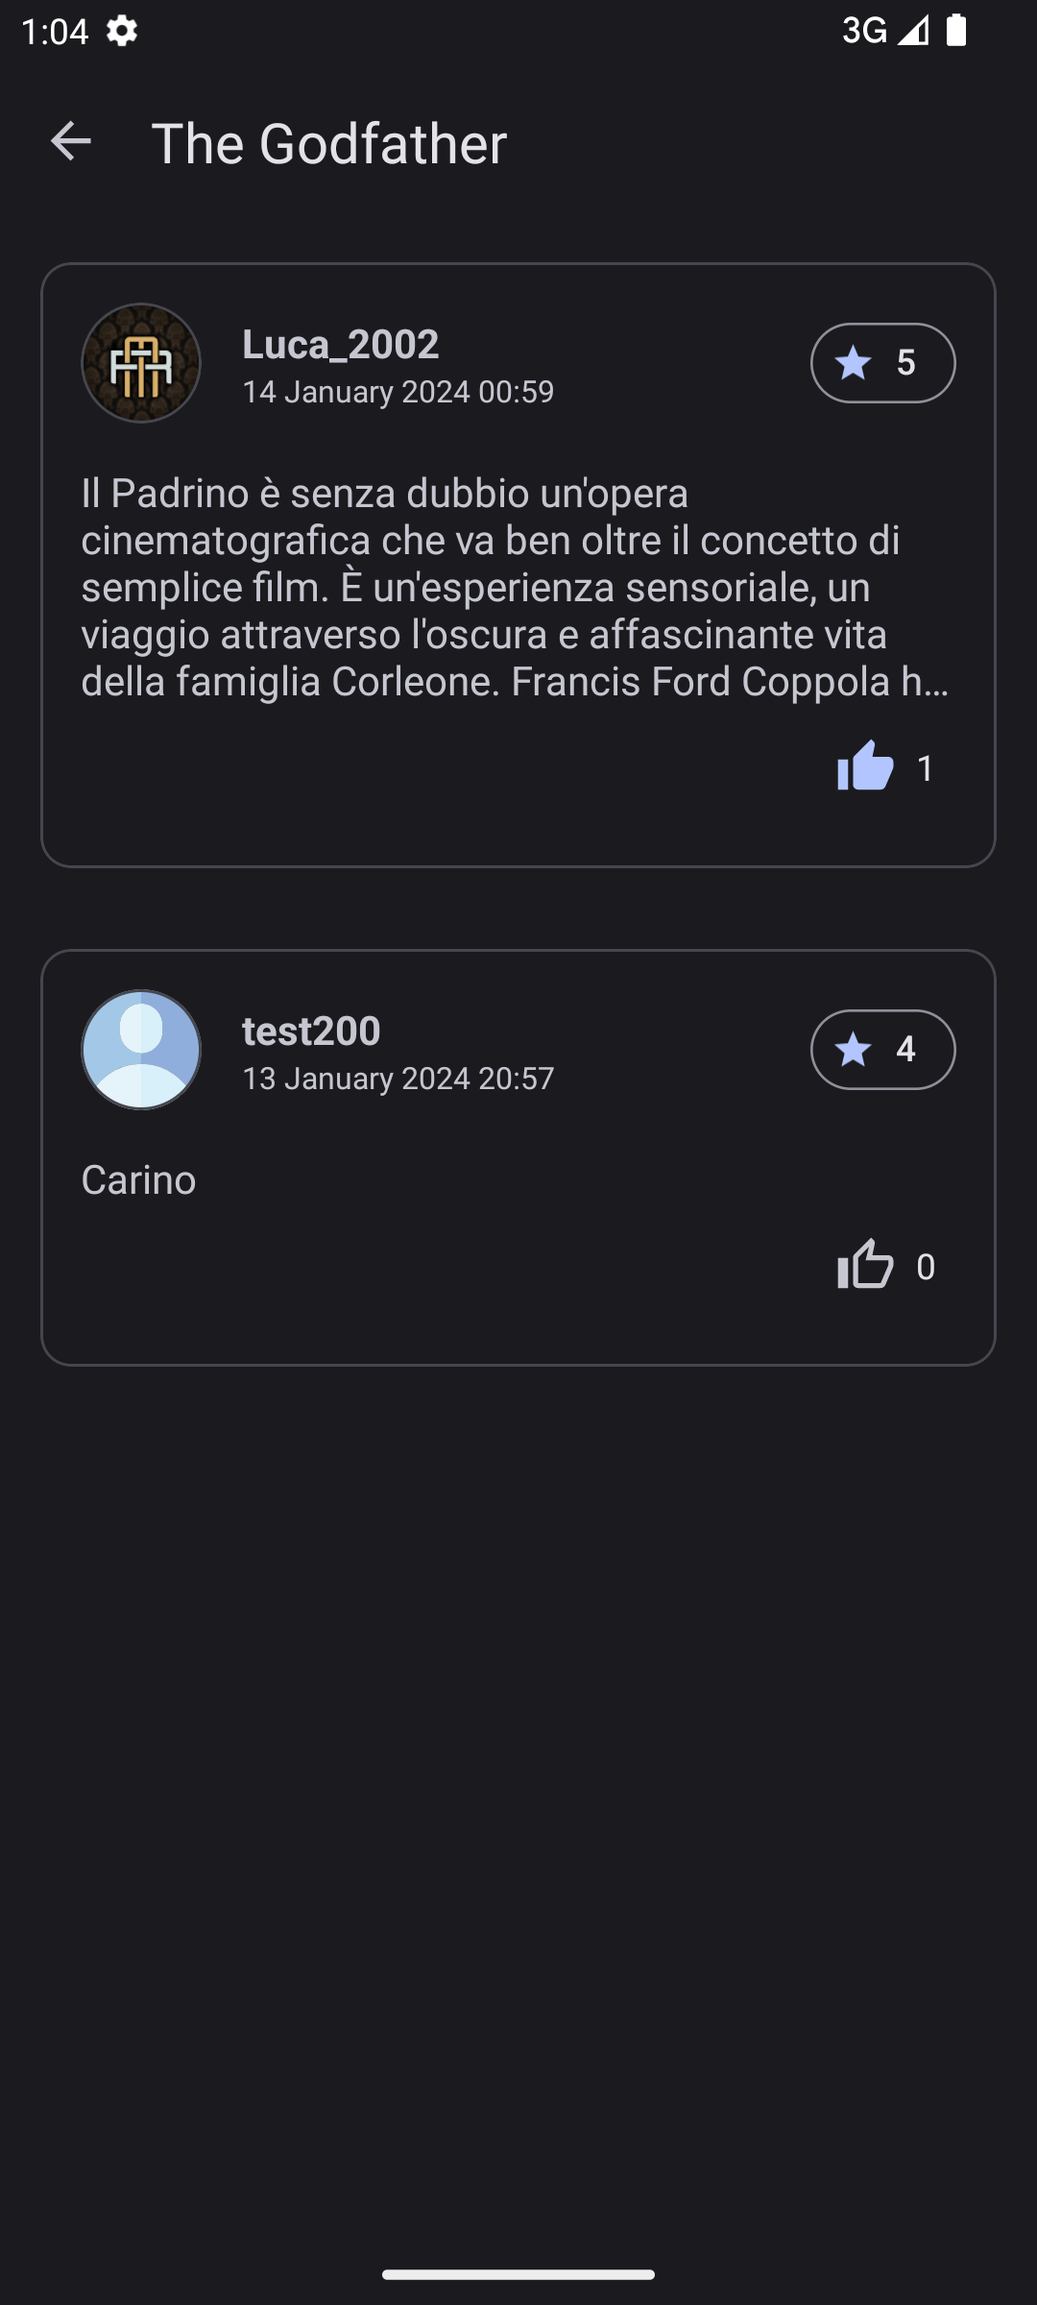
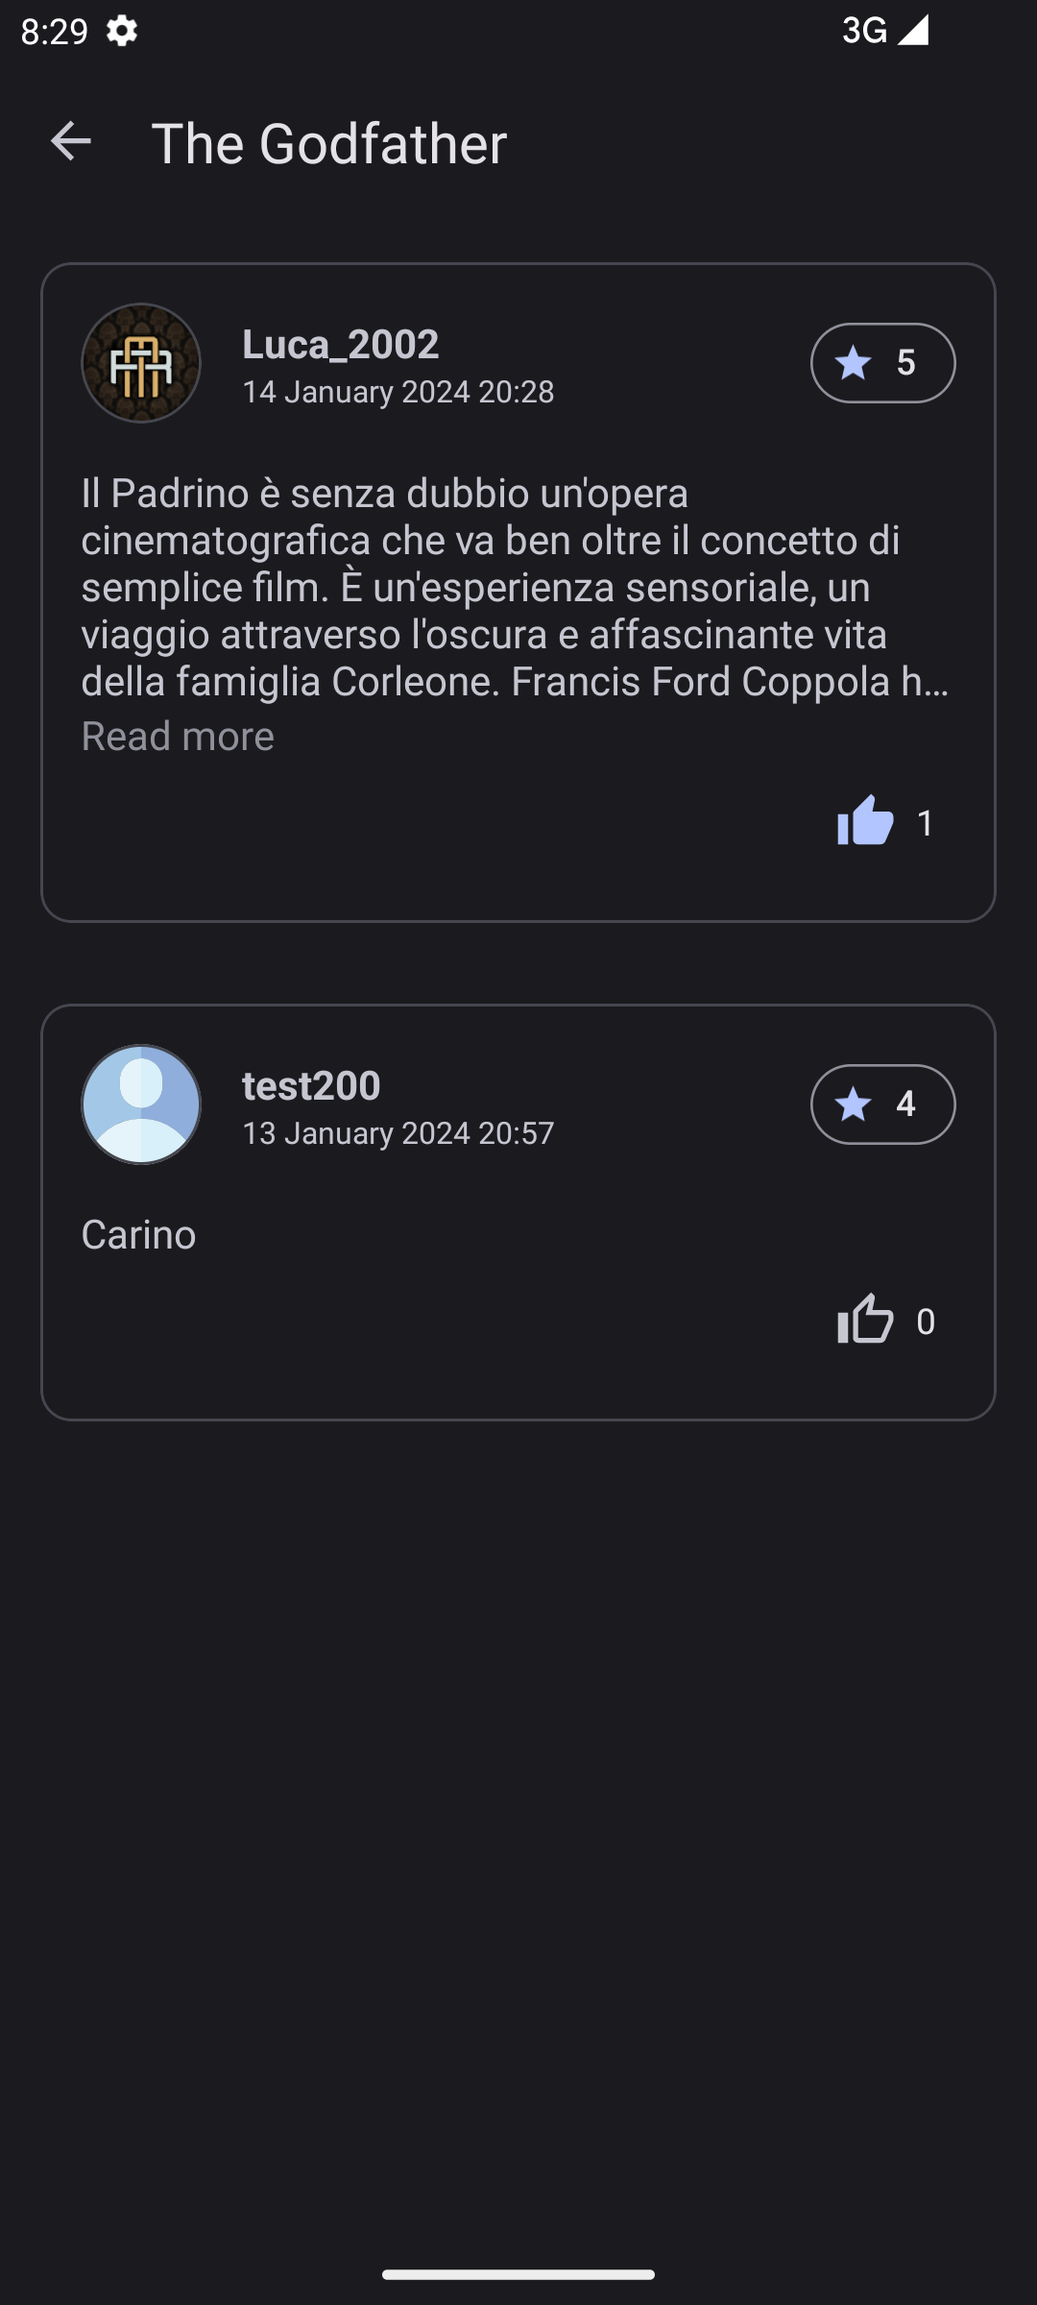
fixed minor bug, and fixed screenshot

diff --git a/app/src/main/java/com/example/cineverse/view/verified_account/fragment/account/AccountFragment.java b/app/src/main/java/com/example/cineverse/view/verified_account/fragment/account/AccountFragment.java
@@ -13,7 +13,6 @@ import androidx.annotation.NonNull;
 import androidx.annotation.Nullable;
 import androidx.fragment.app.Fragment;
 import androidx.lifecycle.MutableLiveData;
-import androidx.lifecycle.Observer;
 import androidx.lifecycle.ViewModelProvider;
 import androidx.recyclerview.widget.LinearLayoutManager;
 
@@ -30,7 +29,6 @@ import com.example.cineverse.data.model.review.UserReview;
 import com.example.cineverse.data.model.ui.ContentSection;
 import com.example.cineverse.databinding.FragmentAccountBinding;
 import com.example.cineverse.utils.mapper.ContentTypeMappingManager;
-import com.example.cineverse.view.details.ContentDetailsActivity;
 import com.example.cineverse.view.details.ContentDetailsActivityOpener;
 import com.example.cineverse.view.verified_account.VerifiedAccountActivity;
 import com.example.cineverse.viewmodel.review.ReviewViewModel;
@@ -88,32 +86,40 @@ public class AccountFragment extends Fragment
 
         watchlistViewModel = new ViewModelProvider(this).get(WatchlistViewModel.class);
         watchlistViewModel.getUserMovieWatchlistLiveData().observe(getViewLifecycleOwner(), abstractContents -> {
-            if (abstractContents != null && binding.materialToggleGroup.getCheckedButtonId() == R.id.buttonMovies) {
-                setWatchlistAdapterData(abstractContents);
+            if (binding.materialToggleGroup.getCheckedButtonId() == R.id.buttonMovies) {
+                fetchWatchlistData(
+                        watchlistViewModel.getUserMovieWatchlistLiveData().getValue(),
+                        ContentTypeMappingManager.ContentType.MOVIE.getType()
+                );
             }
-            handleEmptyLayout();
         });
         watchlistViewModel.getUserTvWatchlistLiveData().observe(getViewLifecycleOwner(), abstractContents -> {
-            if (abstractContents != null && binding.materialToggleGroup.getCheckedButtonId() == R.id.buttonSeries) {
-                setWatchlistAdapterData(abstractContents);
+            if (binding.materialToggleGroup.getCheckedButtonId() == R.id.buttonSeries) {
+                fetchWatchlistData(
+                        watchlistViewModel.getUserTvWatchlistLiveData().getValue(),
+                        ContentTypeMappingManager.ContentType.TV.getType()
+                );
             }
-            handleEmptyLayout();
         });
         watchlistViewModel.getNetworkErrorLiveData().observe(getViewLifecycleOwner(), aBoolean ->
                 handleNetworkError(aBoolean, watchlistViewModel.getNetworkErrorLiveData()));
 
         reviewViewModel = new ViewModelProvider(this).get(ReviewViewModel.class);
         reviewViewModel.getUserMovieReviewListLiveData().observe(getViewLifecycleOwner(), contentUserReviews -> {
-            if (contentUserReviews != null && binding.materialToggleGroup.getCheckedButtonId() == R.id.buttonMovies) {
-                setReviewAdapterData(contentUserReviews);
+            if (binding.materialToggleGroup.getCheckedButtonId() == R.id.buttonMovies) {
+                fetchReviewData(
+                        reviewViewModel.getUserMovieReviewListLiveData().getValue(),
+                        ContentTypeMappingManager.ContentType.MOVIE.getType()
+                );
             }
-            handleEmptyLayout();
         });
         reviewViewModel.getUserTvReviewListLiveData().observe(getViewLifecycleOwner(), contentUserReviews -> {
-            if (contentUserReviews != null && binding.materialToggleGroup.getCheckedButtonId() == R.id.buttonSeries) {
-                setReviewAdapterData(contentUserReviews);
+            if (binding.materialToggleGroup.getCheckedButtonId() == R.id.buttonSeries) {
+                fetchReviewData(
+                        reviewViewModel.getUserTvReviewListLiveData().getValue(),
+                        ContentTypeMappingManager.ContentType.TV.getType()
+                );
             }
-            handleEmptyLayout();
         });
         reviewViewModel.getChangeLikeOfUserToUserReviewOfContentLiveData().observe(
                 getViewLifecycleOwner(), this::handleChangeLikeToUserReview);
@@ -187,7 +193,6 @@ public class AccountFragment extends Fragment
         reviewViewModel.getUserMovieReviewListLiveData().postValue(null);
         watchlistViewModel.getUserTvWatchlistLiveData().postValue(null);
         reviewViewModel.getUserTvReviewListLiveData().postValue(null);
-        handleCheckedButton(binding.materialToggleGroup.getCheckedButtonId());
     }
 
     private void fetchWatchlistData(List<AbstractContent> userDataList, String type) {

diff --git a/app/src/main/java/com/example/cineverse/view/user_watchlist/fragment/UserWatchlistFragment.java b/app/src/main/java/com/example/cineverse/view/user_watchlist/fragment/UserWatchlistFragment.java
@@ -34,10 +34,12 @@ import java.util.concurrent.atomic.AtomicInteger;
 public class UserWatchlistFragment extends Fragment
         implements OnContentClickListener {
 
+    private static final String CHECKED_ITEM_KEY = "watchlistCheckedItem";
+
     private FragmentUserWatchlistBinding binding;
     private WatchlistViewModel watchlistViewModel;
     private ContentViewAllAdapter watchlistAdapter;
-    private int checkedItem = 0;
+    private int checkedItem;
 
     @Override
     public View onCreateView(@NonNull LayoutInflater inflater, ViewGroup container,
@@ -49,6 +51,8 @@ public class UserWatchlistFragment extends Fragment
     @Override
     public void onViewCreated(@NonNull View view, @Nullable Bundle savedInstanceState) {
         super.onViewCreated(view, savedInstanceState);
+        checkedItem = (savedInstanceState != null) ?
+                savedInstanceState.getInt(CHECKED_ITEM_KEY, 0) : 0;
         setActionBarMenu();
         setViewModel();
         setContentUi();
@@ -60,6 +64,12 @@ public class UserWatchlistFragment extends Fragment
     public void onDestroy() {
         super.onDestroy();
         binding = null;
+    }
+
+    @Override
+    public void onSaveInstanceState(@NonNull Bundle outState) {
+        super.onSaveInstanceState(outState);
+        outState.putInt(CHECKED_ITEM_KEY, checkedItem);
     }
 
     /**
@@ -89,13 +99,19 @@ public class UserWatchlistFragment extends Fragment
     private void setViewModel() {
         watchlistViewModel = new ViewModelProvider(this).get(WatchlistViewModel.class);
         watchlistViewModel.getUserMovieWatchlistLiveData().observe(getViewLifecycleOwner(), abstractContents -> {
-            if (abstractContents != null && binding.materialToggleGroup.getCheckedButtonId() == R.id.buttonMovies) {
-                setWatchlistAdapterData(abstractContents);
+            if (binding.materialToggleGroup.getCheckedButtonId() == R.id.buttonMovies) {
+                fetchWatchlistData(
+                        watchlistViewModel.getUserMovieWatchlistLiveData().getValue(),
+                        ContentTypeMappingManager.ContentType.MOVIE.getType()
+                );
             }
         });
         watchlistViewModel.getUserTvWatchlistLiveData().observe(getViewLifecycleOwner(), abstractContents -> {
-            if (abstractContents != null && binding.materialToggleGroup.getCheckedButtonId() == R.id.buttonSeries) {
-                setWatchlistAdapterData(abstractContents);
+            if (binding.materialToggleGroup.getCheckedButtonId() == R.id.buttonSeries) {
+                fetchWatchlistData(
+                        watchlistViewModel.getUserTvWatchlistLiveData().getValue(),
+                        ContentTypeMappingManager.ContentType.TV.getType()
+                );
             }
         });
         watchlistViewModel.getNetworkErrorLiveData().observe(getViewLifecycleOwner(), this::handleNetworkError);
@@ -131,13 +147,11 @@ public class UserWatchlistFragment extends Fragment
                     ContentTypeMappingManager.ContentType.TV.getType()
             );
         }
-        checkedItem = 0;
     }
 
     private void updateAllData() {
         watchlistViewModel.getUserMovieWatchlistLiveData().postValue(null);
         watchlistViewModel.getUserTvWatchlistLiveData().postValue(null);
-        handleCheckedButton(binding.materialToggleGroup.getCheckedButtonId());
     }
 
     private void fetchWatchlistData(List<AbstractContent> userDataList, String type) {
@@ -151,6 +165,7 @@ public class UserWatchlistFragment extends Fragment
     private void setWatchlistAdapterData(List<AbstractContent> userDataList) {
         if (userDataList.size() > 0) {
             watchlistAdapter.setData(userDataList);
+            watchlistAdapter.sortContentList(checkedItem);
             binding.emptyContentLayout.getRoot().setVisibility(View.GONE);
         } else {
             binding.emptyContentLayout.getRoot().setVisibility(View.VISIBLE);

diff --git a/app/src/main/java/com/example/cineverse/view/user_reviews/fragment/UserReviewFragment.java b/app/src/main/java/com/example/cineverse/view/user_reviews/fragment/UserReviewFragment.java
@@ -35,10 +35,12 @@ import java.util.concurrent.atomic.AtomicInteger;
 public class UserReviewFragment extends Fragment
         implements OnReviewClickListener<ContentUserReview> {
 
+    private static final String CHECKED_ITEM_KEY = "reviewCheckedItem";
+
     private FragmentUserReviewBinding binding;
     private ReviewViewModel reviewViewModel;
     private ReviewAdapter<ContentUserReview> reviewAdapter;
-    private int checkedItem = 0;
+    private int checkedItem;
 
     @Override
     public View onCreateView(@NonNull LayoutInflater inflater, ViewGroup container,
@@ -50,6 +52,8 @@ public class UserReviewFragment extends Fragment
     @Override
     public void onViewCreated(@NonNull View view, @Nullable Bundle savedInstanceState) {
         super.onViewCreated(view, savedInstanceState);
+        checkedItem = (savedInstanceState != null) ?
+                savedInstanceState.getInt(CHECKED_ITEM_KEY, 0) : 0;
         setActionBarMenu();
         setViewModel();
         setContentUi();
@@ -61,6 +65,12 @@ public class UserReviewFragment extends Fragment
     public void onDestroy() {
         super.onDestroy();
         binding = null;
+    }
+
+    @Override
+    public void onSaveInstanceState(@NonNull Bundle outState) {
+        super.onSaveInstanceState(outState);
+        outState.putInt(CHECKED_ITEM_KEY, checkedItem);
     }
 
     /**
@@ -90,13 +100,19 @@ public class UserReviewFragment extends Fragment
     private void setViewModel() {
         reviewViewModel = new ViewModelProvider(this).get(ReviewViewModel.class);
         reviewViewModel.getUserMovieReviewListLiveData().observe(getViewLifecycleOwner(), contentUserReviews -> {
-            if (contentUserReviews != null && binding.materialToggleGroup.getCheckedButtonId() == R.id.buttonMovies) {
-                setReviewAdapterData(contentUserReviews);
+            if (binding.materialToggleGroup.getCheckedButtonId() == R.id.buttonMovies) {
+                fetchReviewData(
+                        reviewViewModel.getUserMovieReviewListLiveData().getValue(),
+                        ContentTypeMappingManager.ContentType.MOVIE.getType()
+                );
             }
         });
         reviewViewModel.getUserTvReviewListLiveData().observe(getViewLifecycleOwner(), contentUserReviews -> {
-            if (contentUserReviews != null && binding.materialToggleGroup.getCheckedButtonId() == R.id.buttonSeries) {
-                setReviewAdapterData(contentUserReviews);
+            if (binding.materialToggleGroup.getCheckedButtonId() == R.id.buttonSeries) {
+                fetchReviewData(
+                        reviewViewModel.getUserTvReviewListLiveData().getValue(),
+                        ContentTypeMappingManager.ContentType.TV.getType()
+                );
             }
         });
         reviewViewModel.getChangeLikeOfUserToUserReviewOfContentLiveData().observe(
@@ -134,13 +150,11 @@ public class UserReviewFragment extends Fragment
                     ContentTypeMappingManager.ContentType.TV.getType()
             );
         }
-        checkedItem = 0;
     }
 
     private void updateAllData() {
         reviewViewModel.getUserMovieReviewListLiveData().postValue(null);
         reviewViewModel.getUserTvReviewListLiveData().postValue(null);
-        handleCheckedButton(binding.materialToggleGroup.getCheckedButtonId());
     }
 
     private void fetchReviewData(List<ContentUserReview> userDataList, String type) {
@@ -154,6 +168,7 @@ public class UserReviewFragment extends Fragment
     private void setReviewAdapterData(List<ContentUserReview> userDataList) {
         if (userDataList.size() > 0) {
             reviewAdapter.setData(userDataList);
+            reviewAdapter.sortContentList(checkedItem);
             binding.emptyContentLayout.getRoot().setVisibility(View.GONE);
         } else {
             binding.emptyContentLayout.getRoot().setVisibility(View.VISIBLE);

diff --git a/app/src/main/java/com/example/cineverse/handler/ReviewUiHandler.java b/app/src/main/java/com/example/cineverse/handler/ReviewUiHandler.java
@@ -1,6 +1,9 @@
 package com.example.cineverse.handler;
 
 import android.content.Context;
+import android.text.Layout;
+import android.text.TextUtils;
+import android.util.Log;
 import android.view.View;
 
 import com.bumptech.glide.Glide;
@@ -11,6 +14,7 @@ import com.example.cineverse.data.model.review.ContentUserReview;
 import com.example.cineverse.data.model.review.Review;
 import com.example.cineverse.data.model.review.UserReview;
 import com.example.cineverse.databinding.ReviewItemLayoutBinding;
+import com.example.cineverse.utils.constant.GlobalConstant;
 
 public class ReviewUiHandler {
 
@@ -27,7 +31,7 @@ public class ReviewUiHandler {
         if (review != null) {
             setContentDetails(binding, review);
             setUserDetails(context, binding, review.getUser());
-            setReviewDetails(binding, review, withLikeSection);
+            setReviewDetails(binding, review);
             setLikeDetails(binding, review, withLikeSection);
         }
     }
@@ -59,14 +63,39 @@ public class ReviewUiHandler {
 
     private static void setReviewDetails(
             ReviewItemLayoutBinding binding,
-            UserReview userReview,
-            boolean withLikeSection) {
+            UserReview userReview) {
         Review review = userReview.getReview();
         if (review != null) {
             binding.reviewDateTextView.setText(review.timestampString());
             binding.ratingChip.setText(String.valueOf(review.getRating()));
             binding.reviewTextView.setText(review.getReview());
+            setReviewTextView(binding);
         }
+    }
+
+    private static void setReviewTextView(ReviewItemLayoutBinding binding) {
+        binding.reviewTextView.post(() -> {
+            Layout layout = binding.reviewTextView.getLayout();
+            if (layout != null) {
+                int lines = layout.getLineCount();
+                if (lines > 0) {
+                    if (lines > 5 || layout.getEllipsisCount(lines - 1) > 0) {
+                        binding.readMoreLessTextView.setVisibility(View.VISIBLE);
+                    } else {
+                        binding.readMoreLessTextView.setVisibility(View.GONE);
+                    }
+                }
+            }
+        });
+        binding.readMoreLessTextView.setOnClickListener(v -> {
+            if (binding.reviewTextView.getMaxLines() == 5) {
+                binding.reviewTextView.setMaxLines(Integer.MAX_VALUE);
+                binding.readMoreLessTextView.setText(R.string.read_less);
+            } else {
+                binding.reviewTextView.setMaxLines(5);
+                binding.readMoreLessTextView.setText(R.string.read_more);
+            }
+        });
     }
 
     public static void setLikeDetails(

diff --git a/app/src/main/java/com/example/cineverse/viewmodel/review/ReviewViewModel.java b/app/src/main/java/com/example/cineverse/viewmodel/review/ReviewViewModel.java
@@ -5,7 +5,6 @@ import static com.example.cineverse.utils.constant.GlobalConstant.REVIEW_PAGE_CO
 import static com.example.cineverse.utils.constant.GlobalConstant.START_TIMESTAMP_VALUE;
 
 import android.app.Application;
-import android.util.Log;
 
 import androidx.annotation.NonNull;
 import androidx.lifecycle.MutableLiveData;
@@ -16,7 +15,6 @@ import com.example.cineverse.data.model.review.Review;
 import com.example.cineverse.data.model.review.UserReview;
 import com.example.cineverse.data.source.review.ReviewFirebaseCallback;
 import com.example.cineverse.repository.review.ReviewRepository;
-import com.example.cineverse.utils.constant.GlobalConstant;
 import com.example.cineverse.utils.mapper.ContentTypeMappingManager;
 import com.example.cineverse.viewmodel.verified_account.VerifiedAccountViewModel;
 
@@ -154,7 +152,7 @@ public class ReviewViewModel
 
     public void refreshContentReviewOfContent(AbstractContent content) {
         setLastTimestamp(START_TIMESTAMP_VALUE);
-        getPagedUserReviewOfContentLiveData().postValue(new ArrayList<>());
+        getPagedUserReviewOfContentLiveData().postValue(null);
         getPagedUserReviewOfContent(content);
     }
 
@@ -168,7 +166,7 @@ public class ReviewViewModel
 
     @Override
     public void onContentRating(Double rating) {
-        contentRatingLiveData.postValue(rating);
+        getContentRatingLiveData().postValue(rating);
     }
 
     @Override

diff --git a/app/src/main/java/com/example/cineverse/view/details/fragment/ReviewDetailsFragment.java b/app/src/main/java/com/example/cineverse/view/details/fragment/ReviewDetailsFragment.java
@@ -52,8 +52,6 @@ public class ReviewDetailsFragment extends Fragment {
             }
             ReviewUiHandler.setReviewUi(requireContext(), binding.reviewLayout, userReview, withLikeSection);
             binding.reviewLayout.getRoot().setClickable(false);
-            binding.reviewLayout.reviewTextView.setMaxLines(Integer.MAX_VALUE);
-            binding.reviewLayout.reviewTextView.setEllipsize(null);
         }
         binding.materialToolbar.setNavigationOnClickListener(v ->
                 requireActivity().getOnBackPressedDispatcher().onBackPressed());

diff --git a/app/src/main/java/com/example/cineverse/view/details/fragment/ContentDetailsFragment.java b/app/src/main/java/com/example/cineverse/view/details/fragment/ContentDetailsFragment.java
@@ -256,7 +256,7 @@ public class ContentDetailsFragment extends Fragment
     }
 
     private void handlePagedContentReview(List<UserReview> userReviewList) {
-        if (userReviewList.size() > 0) {
+        if (userReviewList != null && userReviewList.size() > 0) {
             reviewAdapter.setData(userReviewList.subList(0, Math.min(userReviewList.size(), 3)));
             binding.recentReviewConstraintLayout.setVisibility(View.VISIBLE);
             binding.recentReviewRecyclerView.setVisibility(View.VISIBLE);

diff --git a/app/src/main/java/com/example/cineverse/view/details/fragment/ViewAllReviewContentFragment.java b/app/src/main/java/com/example/cineverse/view/details/fragment/ViewAllReviewContentFragment.java
@@ -128,8 +128,10 @@ public class ViewAllReviewContentFragment extends Fragment
     }
 
     private void handlePagedContentReview(List<UserReview> userReviewList) {
-        reviewAdapter.addPagingData(userReviewList);
-        reviewViewModel.setLoading(false);
+        if (userReviewList != null) {
+            reviewAdapter.addPagingData(userReviewList);
+            reviewViewModel.setLoading(false);
+        }
     }
 
     private void handleChangeLikeToUserReview(UserReview userReview) {
